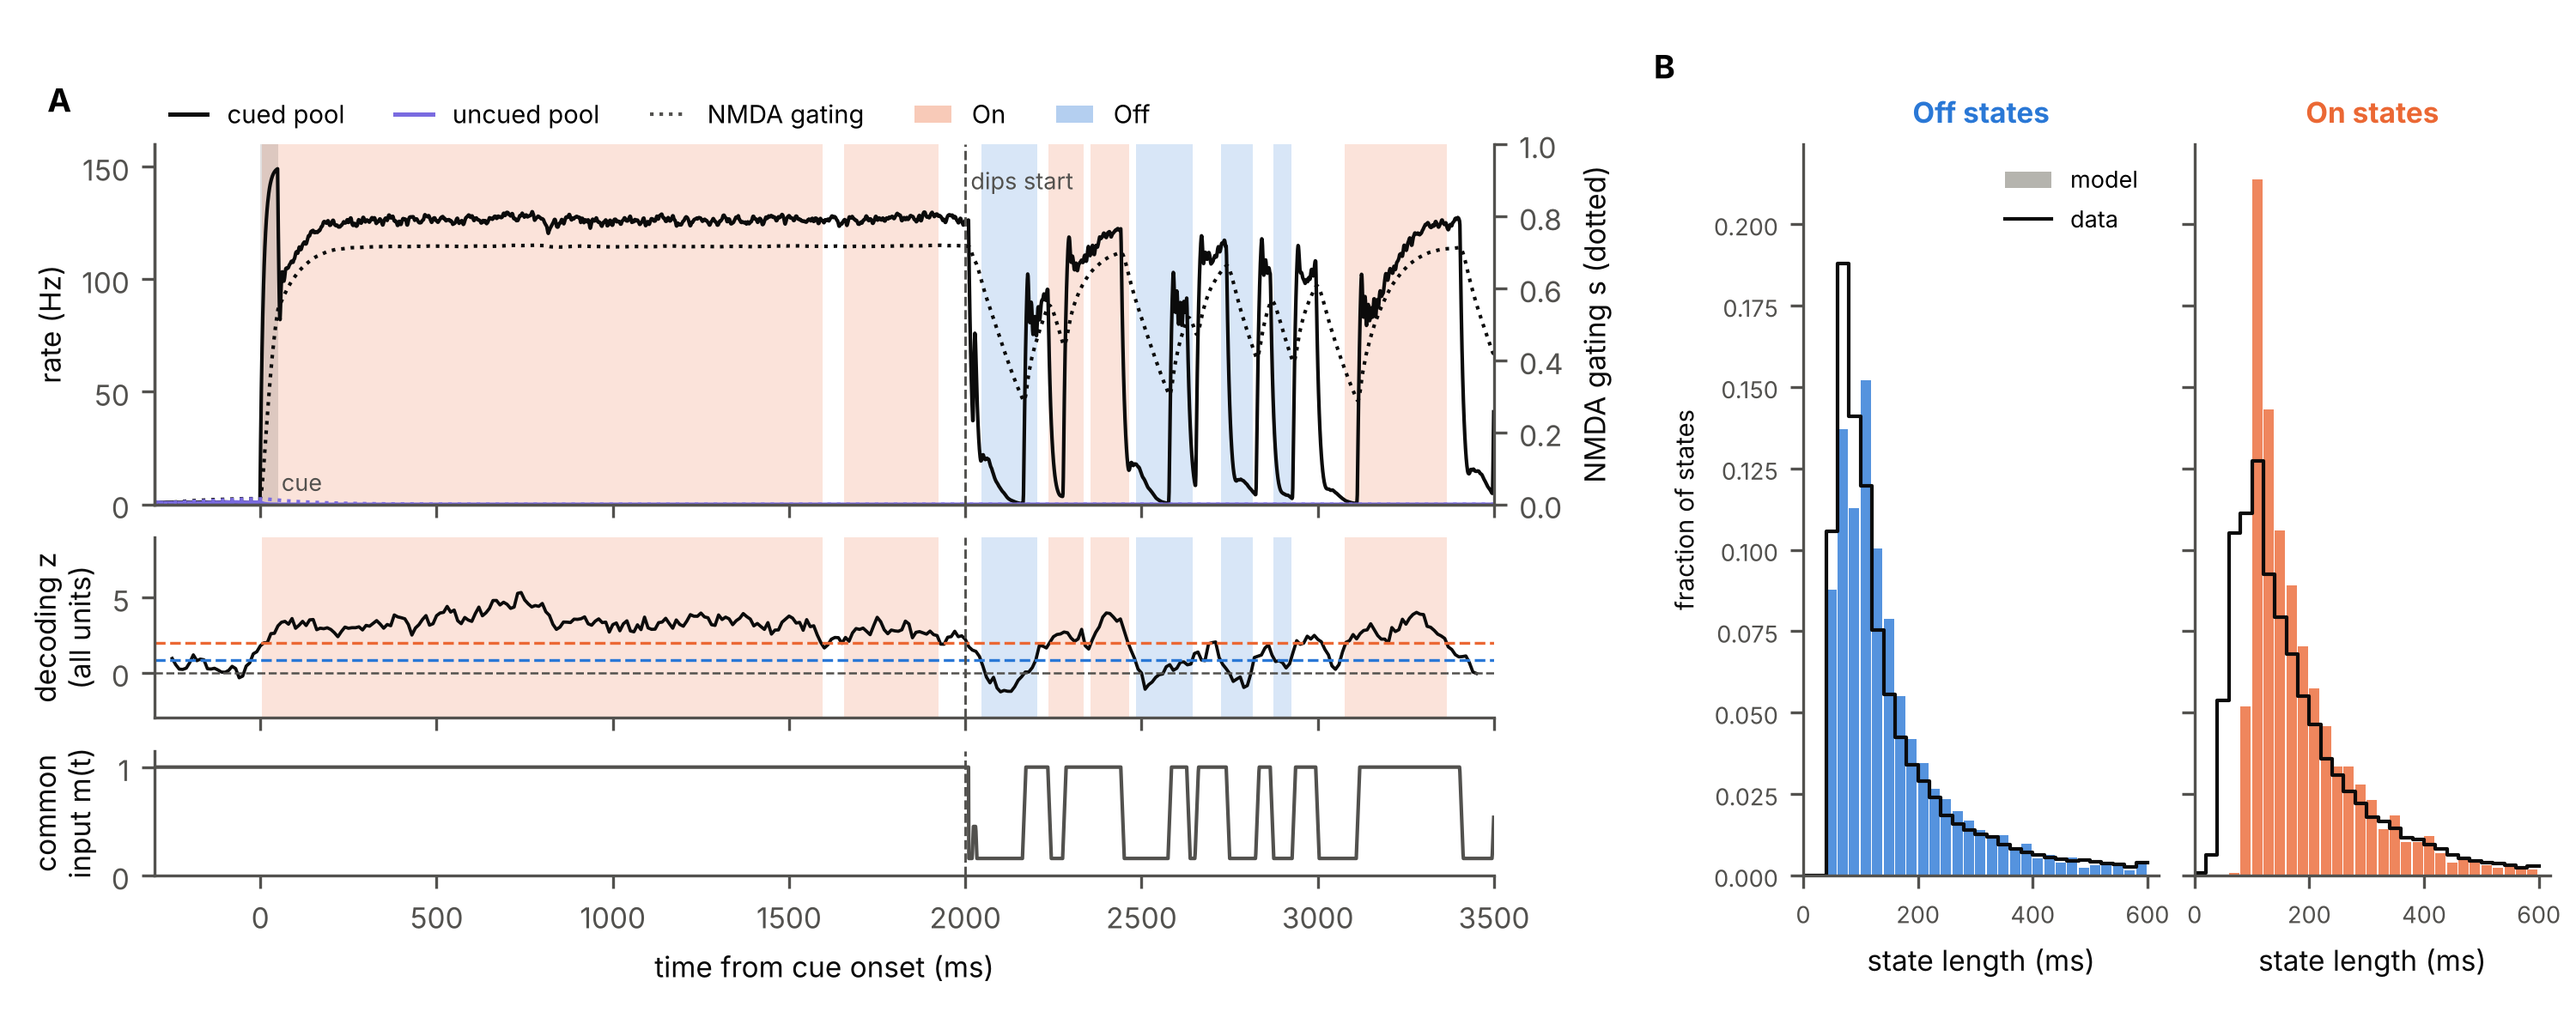
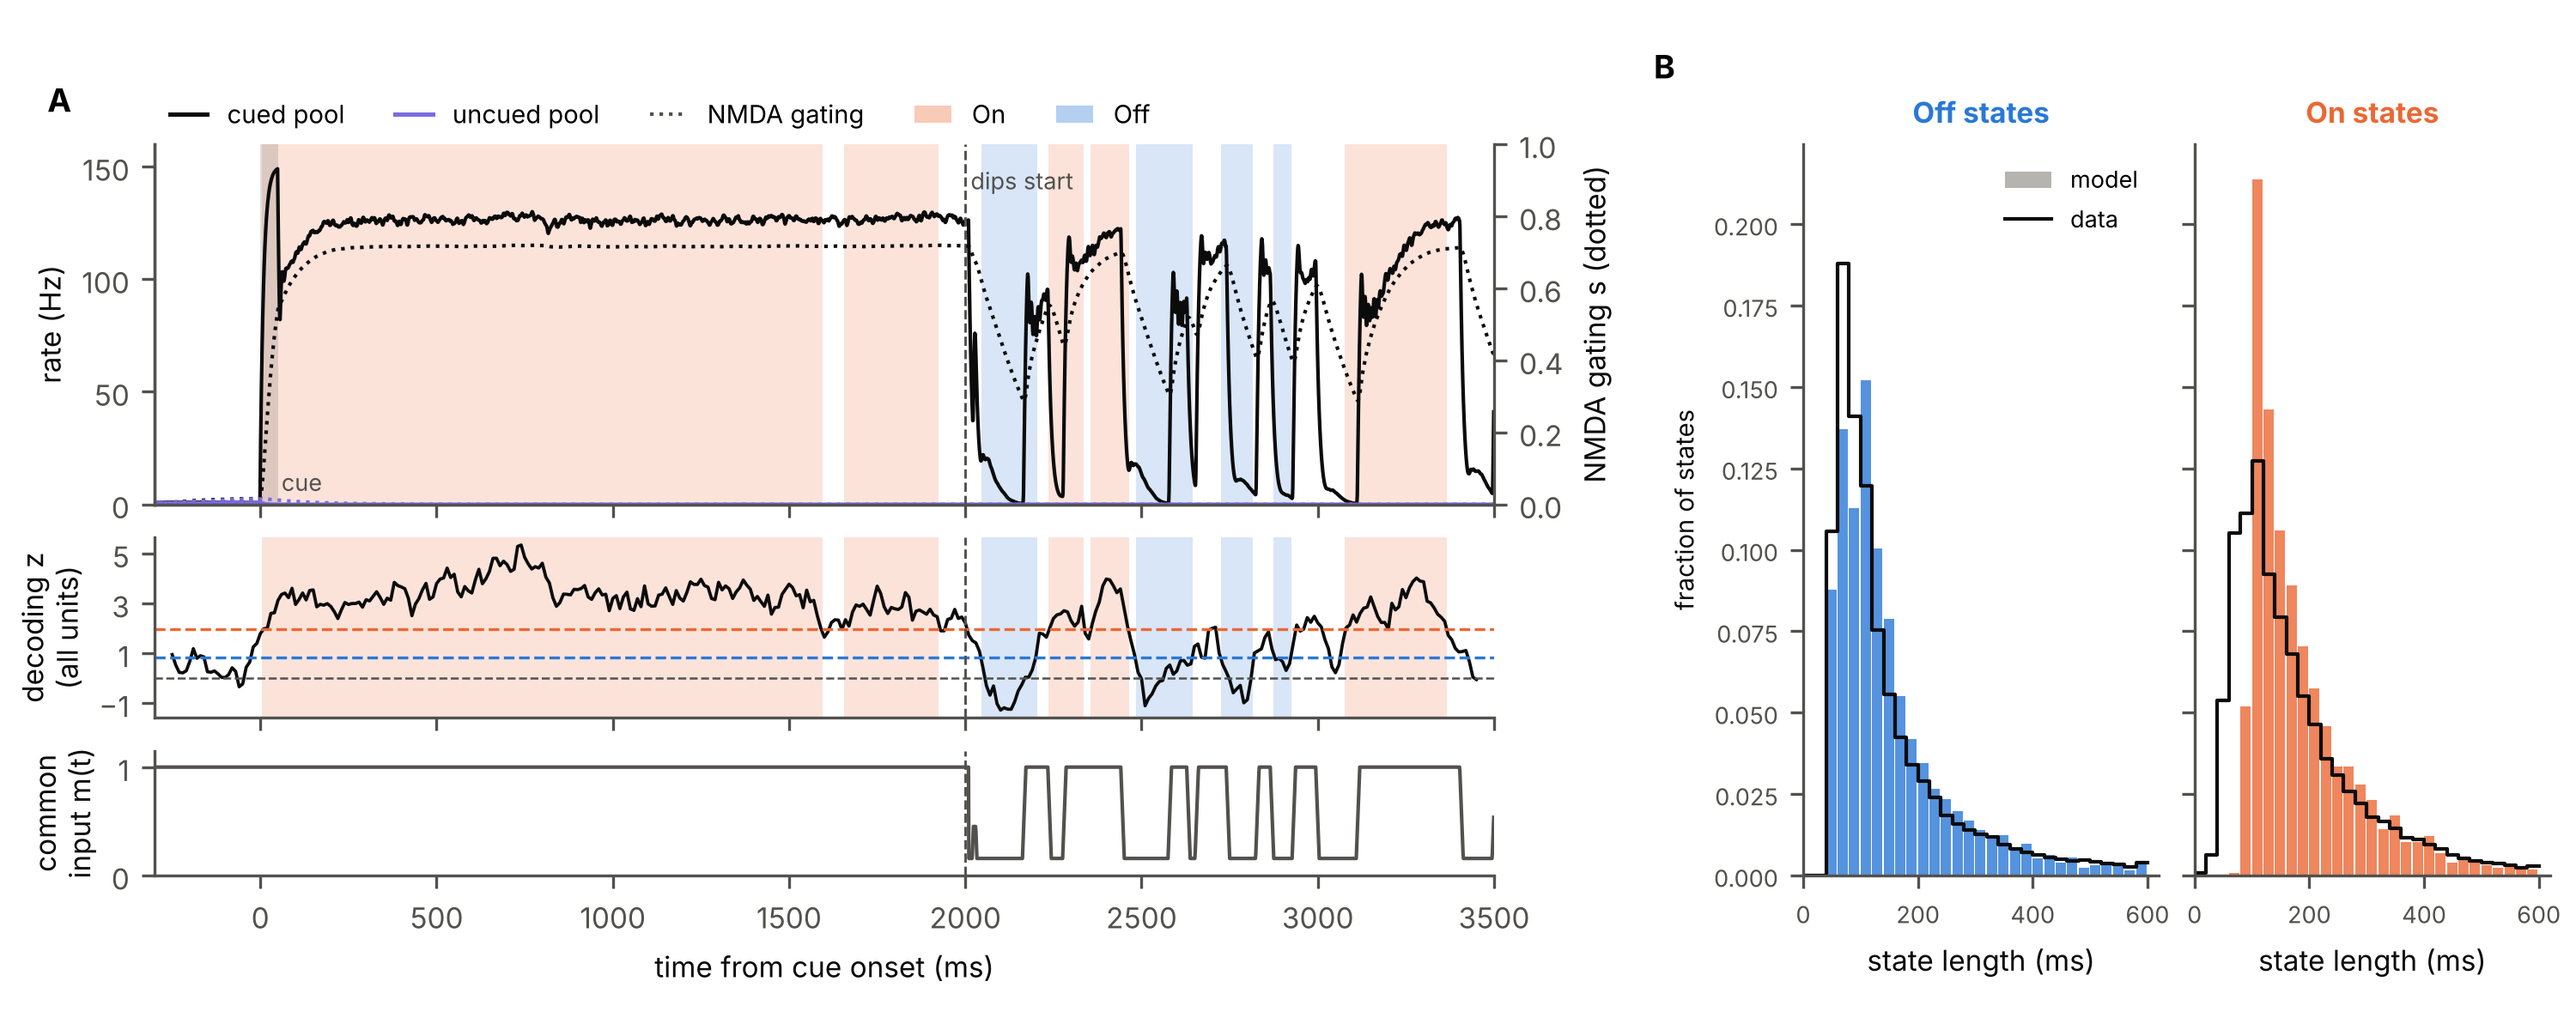
Figure 1: tight y axis on the decoding trace
Claude-Session: https://claude.ai/code/session_01DWA8oLxpZgubPZ4A6kb3Lh

Changed region(s): [[0.0, 0.5242, 0.589, 0.6783]]

diff --git a/paper_model/make_figures.py b/paper_model/make_figures.py
@@ -103,7 +103,8 @@ def figure1(out, path):
     d.plot(tz, z[k], color=INK, lw=0.9)
     d.axhline(0, color=INK2, ls='--', lw=0.6)
     d.axhline(1.96, color=C_ON, ls='--', lw=0.8); d.axhline(0.84, color=C_OFF, ls='--', lw=0.8)
-    d.set_ylim(-3, 9); d.set_ylabel('decoding z\n(all units)'); d.tick_params(labelbottom=False)
+    zk = z[k][tz <= QUIET + DIPS]
+    d.set_ylim(zk.min() - 0.3, zk.max() + 0.3); d.set_yticks(np.arange(np.ceil(zk.min()), zk.max() + 0.3, 2)); d.set_ylabel('decoding z\n(all units)'); d.tick_params(labelbottom=False)
     b = fig.add_subplot(gs[2], sharex=a)
     b.plot(t, sim['m'][k], color=INK2, lw=1.0)
     b.set_ylim(0, 1.15); b.set_yticks([0, 1]); b.set_ylabel('common\ninput m(t)')
